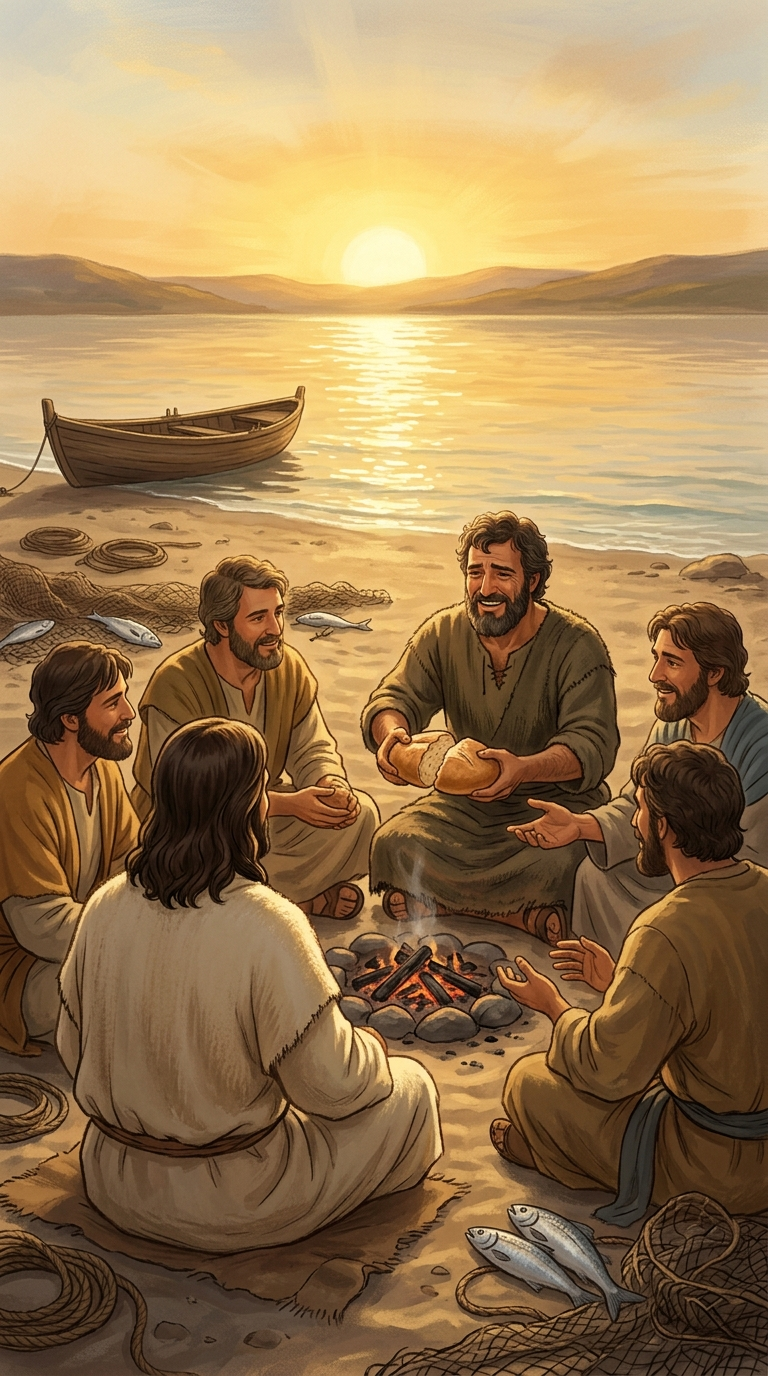
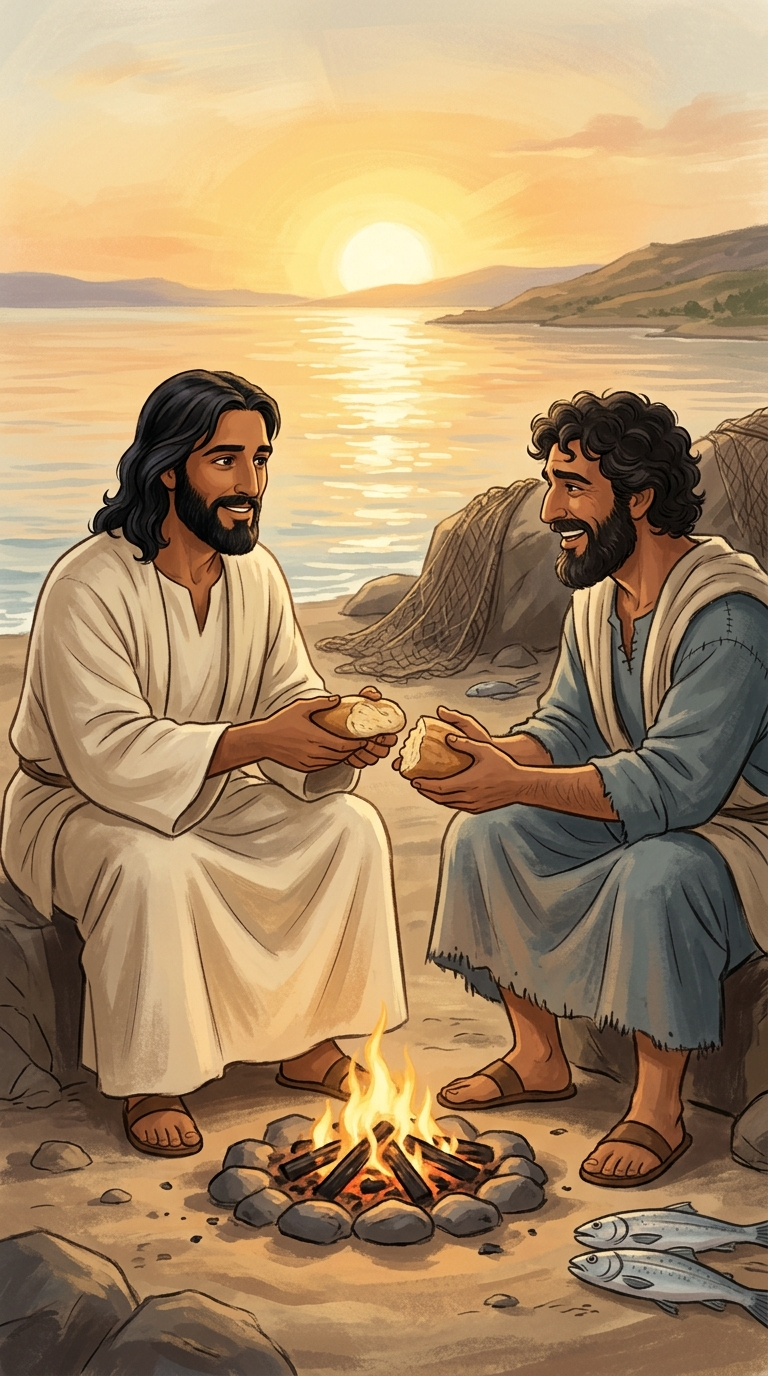
STILLS #19: fix eating scenes to Jesus+Peter ALONE (Cameron: 'the whole fishing crew doesnt eat with them its just peter') — s7 breaks-bread + s16 breakfast, crew removed, Jesus face shown giving bread (Machine C)

diff --git a/media-production/build-19-shore/PROMPTS.md b/media-production/build-19-shore/PROMPTS.md
@@ -75,14 +75,8 @@ steadiness. Warm gold sunrise glowing behind him. One single continuous scene
 painted edge to edge.
 
 ## s7-breaks-bread — BANKED Shot 7: the failure who feeds (n14)
-SINGLE UNIFIED ILLUSTRATION, one scene edge to edge, NOT a grid, NOT a triptych, NOT stacked panels, NOT two copies of the same scene, no dividing lines or seams anywhere, ONE picture only showing ONE moment, artwork fills the ENTIRE frame and bleeds to all four edges, no border, no frame, no vignette, one single tall upright vertical painting. [STILL STYLE BLOCK] Full warm sunrise on the beach. A small group of fishermen
-sits in a circle on the sand around the low charcoal fire, eating breakfast
-together, the lake blazing gold behind them. The big fisherman — restored,
-half-laughing through the last of his tears — breaks a round loaf of bread in his
-two hands and passes it around the circle, the first act of his new work. At the
-head of the circle, seen only from behind, the risen Lord sits in his cream wool
-robe with his back to us and long dark hair, quietly sharing the meal. Nets and a
-few silver fish rest on the sand. One single continuous scene painted edge to edge.
+SINGLE UNIFIED ILLUSTRATION, one scene edge to edge, NOT a grid, NOT a triptych, NOT stacked panels, NOT two copies of the same scene, no dividing lines or seams anywhere, ONE picture only showing ONE moment, artwork fills the ENTIRE frame and bleeds to all four edges, no border, no frame, no vignette, one single tall upright vertical painting. [STILL STYLE BLOCK] Full warm sunrise on the beach. ONLY two men at the low charcoal fire — nobody else in the frame. The risen Lord, his face SHOWN, warm and kind, in his one plain undyed cream wool robe, breaks a round loaf of bread and holds it out across the fire to Peter — the broad Galilean fisherman with thick dark CURLY hair and a full dark beard, in his BLUE-GREY tunic (the locked cast Peter) — who is restored, half-laughing through the last of his tears as he receives it with both hands. Just the two of them by the fire, the lake blazing gold behind, nets and a few silver fish on the sand. Only Jesus wears cream. JESUS LOCK v3: the SAME man as the attached JESUS-MASTER-REF images — identical face, hair and beard in every picture: a Middle Eastern Jewish man of about thirty-three, warm tan olive-brown skin, shoulder-length dark brown-black wavy hair, a full dark beard, kind warm BROWN eyes, one plain undyed off-white cream wool robe (only he wears cream). No halo, no glow. Never caucasian, never pale, never blue-eyed, never blond.
+REF: jesus-master-ref One single continuous scene painted edge to edge.
 
 ## s8-call-shore — story-coverage shot (generated 2026-07-20)
 SINGLE UNIFIED ILLUSTRATION, one scene edge to edge, NOT a grid, NOT a triptych, NOT stacked panels, NOT two copies of the same scene, no dividing lines or seams anywhere, ONE picture only showing ONE moment, artwork fills the ENTIRE frame and bleeds to all four edges, no border, no frame, no vignette, one single tall upright vertical painting. Beautiful hand-painted 2D animation style, reverent and warm, like a classic illustrated storybook of scripture brought to life. Soft painterly brushstroke textures, glowing golden light, muted earth tones with warm gold highlights. First-century Judea. Sacred, hushed tone. Not photorealistic. No text or captions in the image. Historically modest clothing: rough-woven wool and linen in undyed earth colors. No modern objects. Pale gray-gold dawn on a wide still lake, seen from just behind a small wooden fishing boat looking across the water toward the beach. Far off on the distant shore stands one small far-off figure in a pale cream robe beside a thin thread of rising smoke, one arm lifted, calling out across the water — far too distant for his features to be read, only a warm shape against the first light. In the boat, in the foreground, three weary fishermen turn their heads toward the voice: (1) the Peter — the broad Galilean fisherman with thick dark CURLY hair and a full dark beard, in his BLUE-GREY tunic (the locked cast Peter) at the gunwale; (2) a lean older fisherman in a dun tunic at the oars; (3) a young fisherman in a faded brown tunic holding the limp EMPTY net that hangs dripping over the side — no fish anywhere. PETER LOCK: the Peter — the broad Galilean fisherman with thick dark CURLY hair and a full dark beard, in his BLUE-GREY tunic (the locked cast Peter), a weathered strong face that IS shown. The same man in every picture. The other fishermen wear oatmeal, dun and faded brown tunics — none of them wears cream or off-white, and none of them resembles the big fisherman. Flat calm water, first gold light low on the horizon. One single continuous scene painted edge to edge.
@@ -110,7 +104,7 @@ SINGLE UNIFIED ILLUSTRATION, one scene edge to edge, NOT a grid, NOT a triptych,
 
 ## s16-breakfast — story-coverage shot (generated 2026-07-20)
 REF: jesus-master-ref (attach media-production/JESUS-MASTER-REF/jesus-face.jpeg)
-SINGLE UNIFIED ILLUSTRATION, one scene edge to edge, NOT a grid, NOT a triptych, NOT stacked panels, NOT two copies of the same scene, no dividing lines or seams anywhere, ONE picture only showing ONE moment, artwork fills the ENTIRE frame and bleeds to all four edges, no border, no frame, no vignette, one single tall upright vertical painting. Beautiful hand-painted 2D animation style, reverent and warm, like a classic illustrated storybook of scripture brought to life. Soft painterly brushstroke textures, glowing golden light, muted earth tones with warm gold highlights. First-century Judea. Sacred, hushed tone. Not photorealistic. No text or captions in the image. Historically modest clothing: rough-woven wool and linen in undyed earth colors. No modern objects. WIDE FULL-LENGTH SCENE with SEVERAL PEOPLE — never a portrait, never a close-up of one face, the camera far enough back that every figure is visible head to sandals with the beach around them. Full first-gold sunrise on the beach. Around the low charcoal fire on the sand a quiet breakfast: the risen Lord, in his one plain undyed cream wool robe, kneels at the fire breaking a round loaf and handing bread across the fire to the Peter — the broad Galilean fisherman with thick dark CURLY hair and a full dark beard, in his BLUE-GREY tunic (the locked cast Peter), who sits close, damp and subdued, receiving it with both hands, hardly able to look up. Around them sit the lean older fisherman in a dun tunic and the young fisherman in a faded brown tunic, eating quietly, the beached boat and the huge net of silver fish behind them at the waterline. PETER LOCK: the Peter — the broad Galilean fisherman with thick dark CURLY hair and a full dark beard, in his BLUE-GREY tunic (the locked cast Peter), a weathered strong face that IS shown. The same man in every picture. The other fishermen wear oatmeal, dun and faded brown tunics — none of them wears cream or off-white, and none of them resembles the big fisherman. Only he wears cream — every other man is in blue-grey, dun, oatmeal or faded brown. The lake blazes soft gold behind them. One single continuous scene painted edge to edge. JESUS LOCK v3: the SAME man as the attached JESUS-MASTER-REF images — identical face, hair and beard in every picture: a Middle Eastern Jewish man of about thirty-three, warm tan olive-brown skin, shoulder-length dark brown-black wavy hair, a full dark beard, kind warm BROWN eyes, one plain undyed off-white cream wool robe (only he wears cream). No halo, no glow. Never caucasian, never pale, never blue-eyed, never blond.
+SINGLE UNIFIED ILLUSTRATION, one scene edge to edge, NOT a grid, NOT a triptych, NOT stacked panels, NOT two copies of the same scene, no dividing lines or seams anywhere, ONE picture only showing ONE moment, artwork fills the ENTIRE frame and bleeds to all four edges, no border, no frame, no vignette, one single tall upright vertical painting. Beautiful hand-painted 2D animation style, reverent and warm, like a classic illustrated storybook of scripture brought to life. Soft painterly brushstroke textures, glowing golden light, muted earth tones with warm gold highlights. First-century Judea. Sacred, hushed tone. Not photorealistic. No text or captions in the image. Historically modest clothing: rough-woven wool and linen in undyed earth colors. No modern objects. A close, intimate TWO-PERSON scene — ONLY the risen Lord and Peter at the fire, nobody else present. Full first-gold sunrise on the beach. Around the low charcoal fire on the sand a quiet breakfast: the risen Lord, in his one plain undyed cream wool robe, kneels at the fire breaking a round loaf and handing bread across the fire to the Peter — the broad Galilean fisherman with thick dark CURLY hair and a full dark beard, in his BLUE-GREY tunic (the locked cast Peter), who sits close, damp and subdued, receiving it with both hands, hardly able to look up. It is JUST the two of them — no other fishermen in the frame; the beached boat and the huge net of silver fish rest empty behind them at the waterline. PETER LOCK: the Peter — the broad Galilean fisherman with thick dark CURLY hair and a full dark beard, in his BLUE-GREY tunic (the locked cast Peter), a weathered strong face that IS shown. The same man in every picture. The other fishermen wear oatmeal, dun and faded brown tunics — none of them wears cream or off-white, and none of them resembles the big fisherman. Only he wears cream — every other man is in blue-grey, dun, oatmeal or faded brown. The lake blazes soft gold behind them. One single continuous scene painted edge to edge. JESUS LOCK v3: the SAME man as the attached JESUS-MASTER-REF images — identical face, hair and beard in every picture: a Middle Eastern Jewish man of about thirty-three, warm tan olive-brown skin, shoulder-length dark brown-black wavy hair, a full dark beard, kind warm BROWN eyes, one plain undyed off-white cream wool robe (only he wears cream). No halo, no glow. Never caucasian, never pale, never blue-eyed, never blond.
 
 ## s17-second-ask — Shot 17: it cost him more each time (n11, s16)
 REF: jesus-master-ref (attach media-production/JESUS-MASTER-REF/jesus-face.jpeg)
